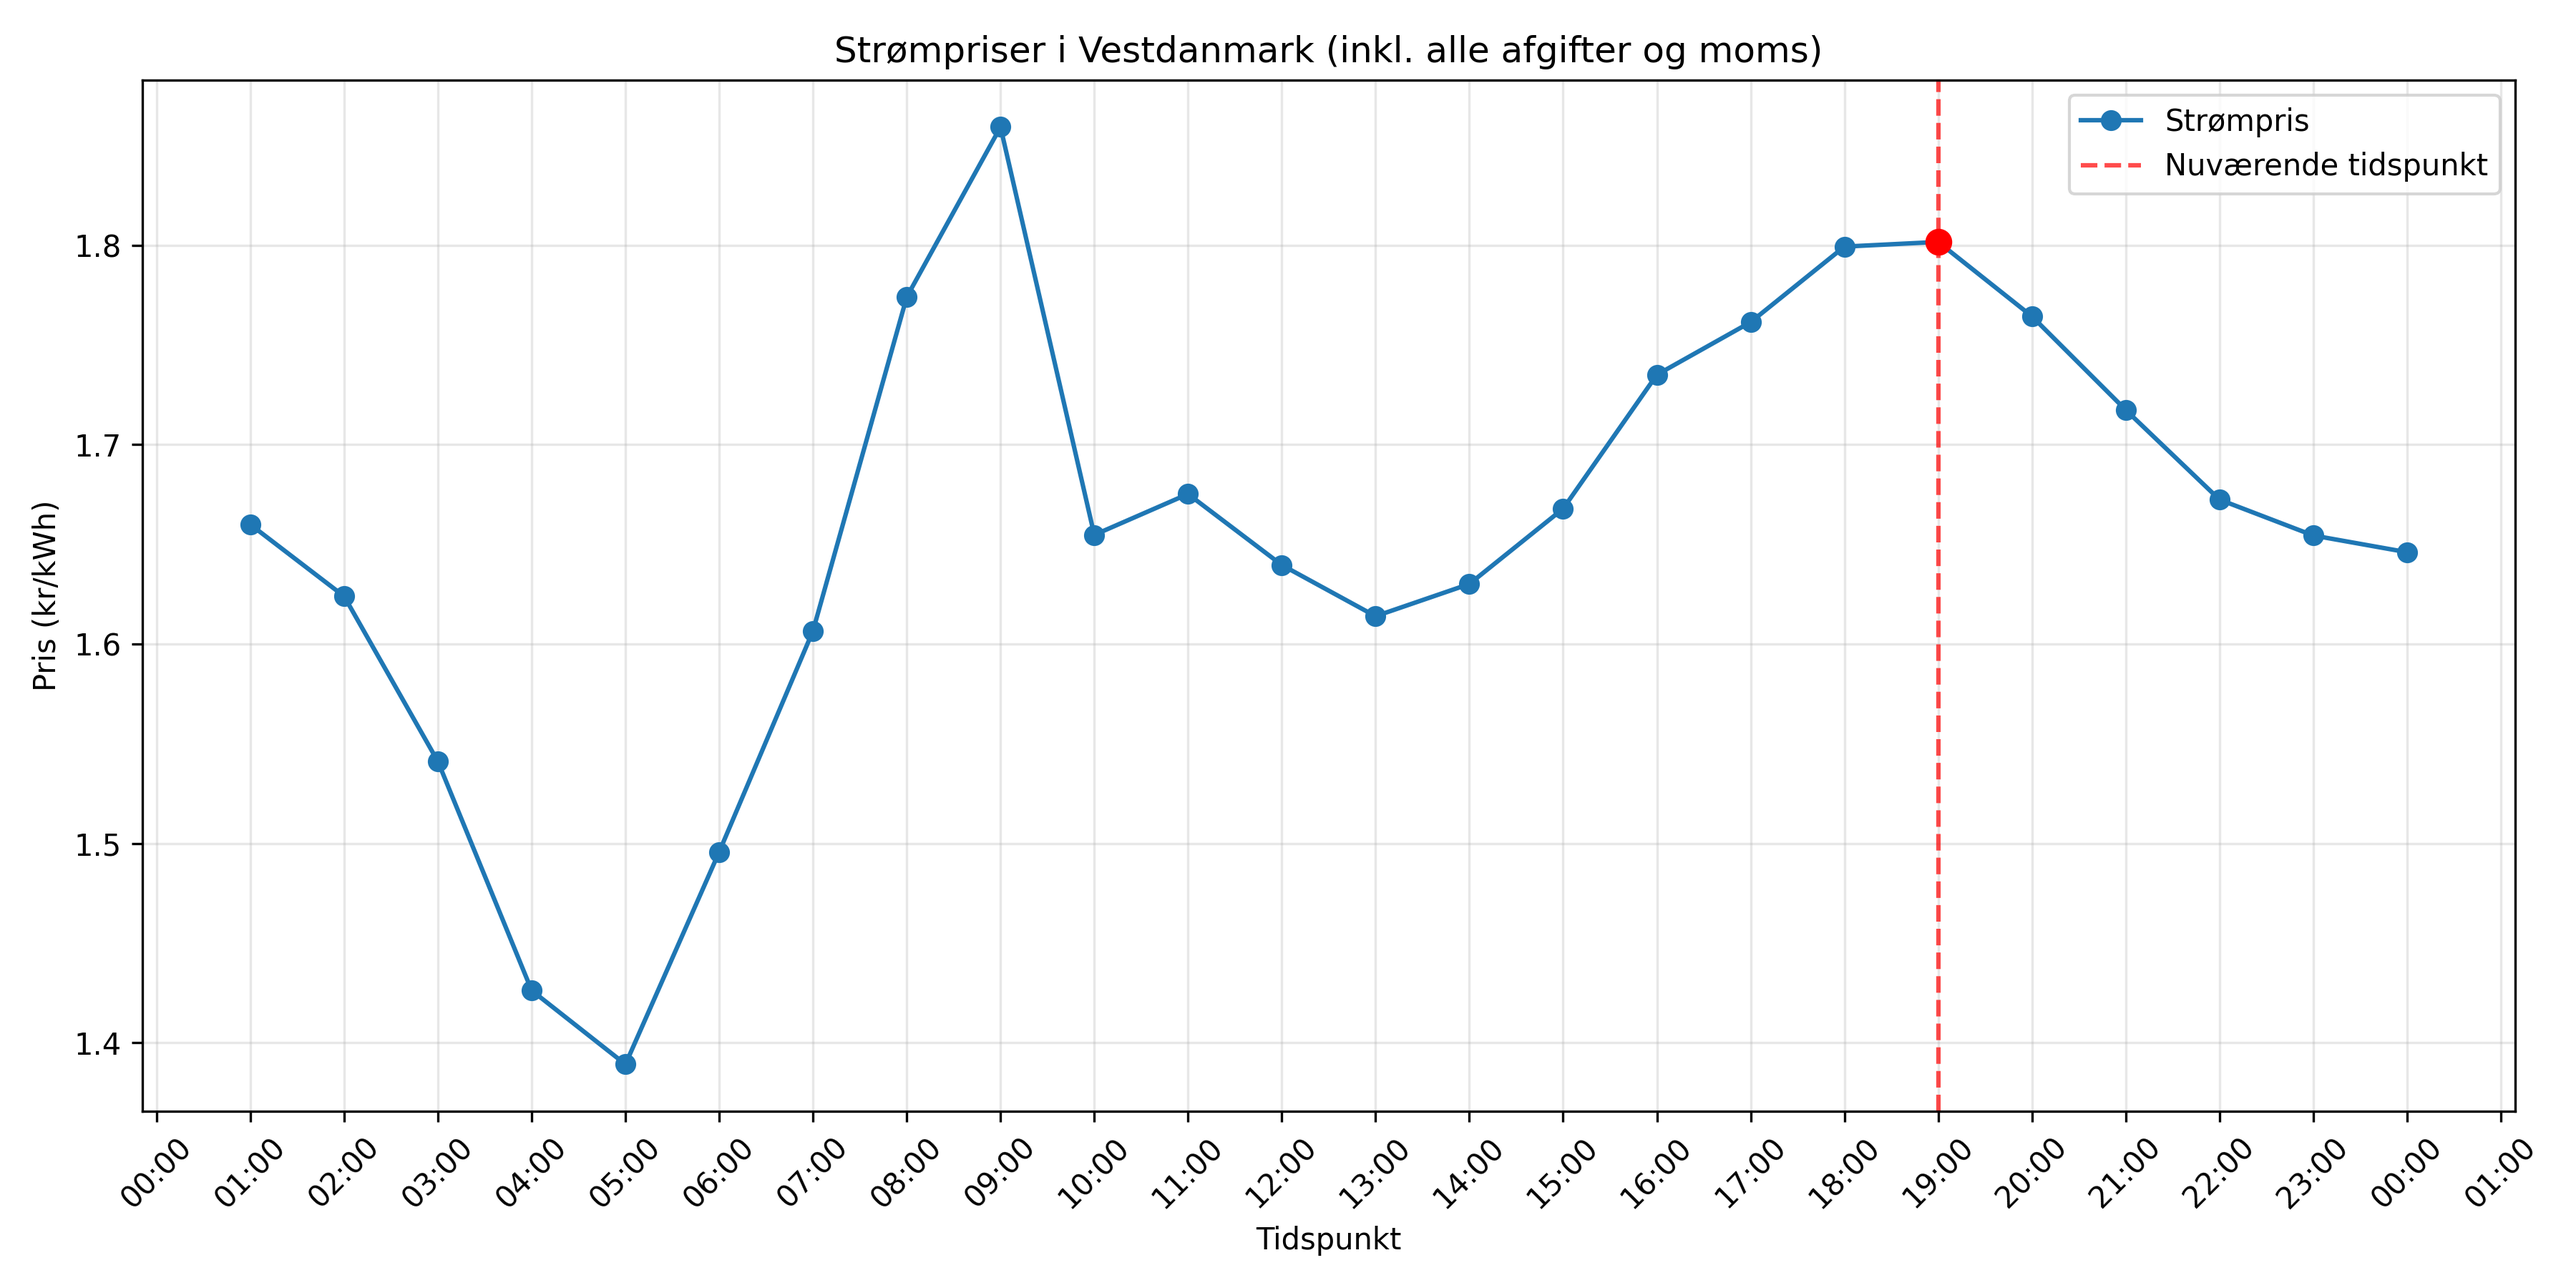
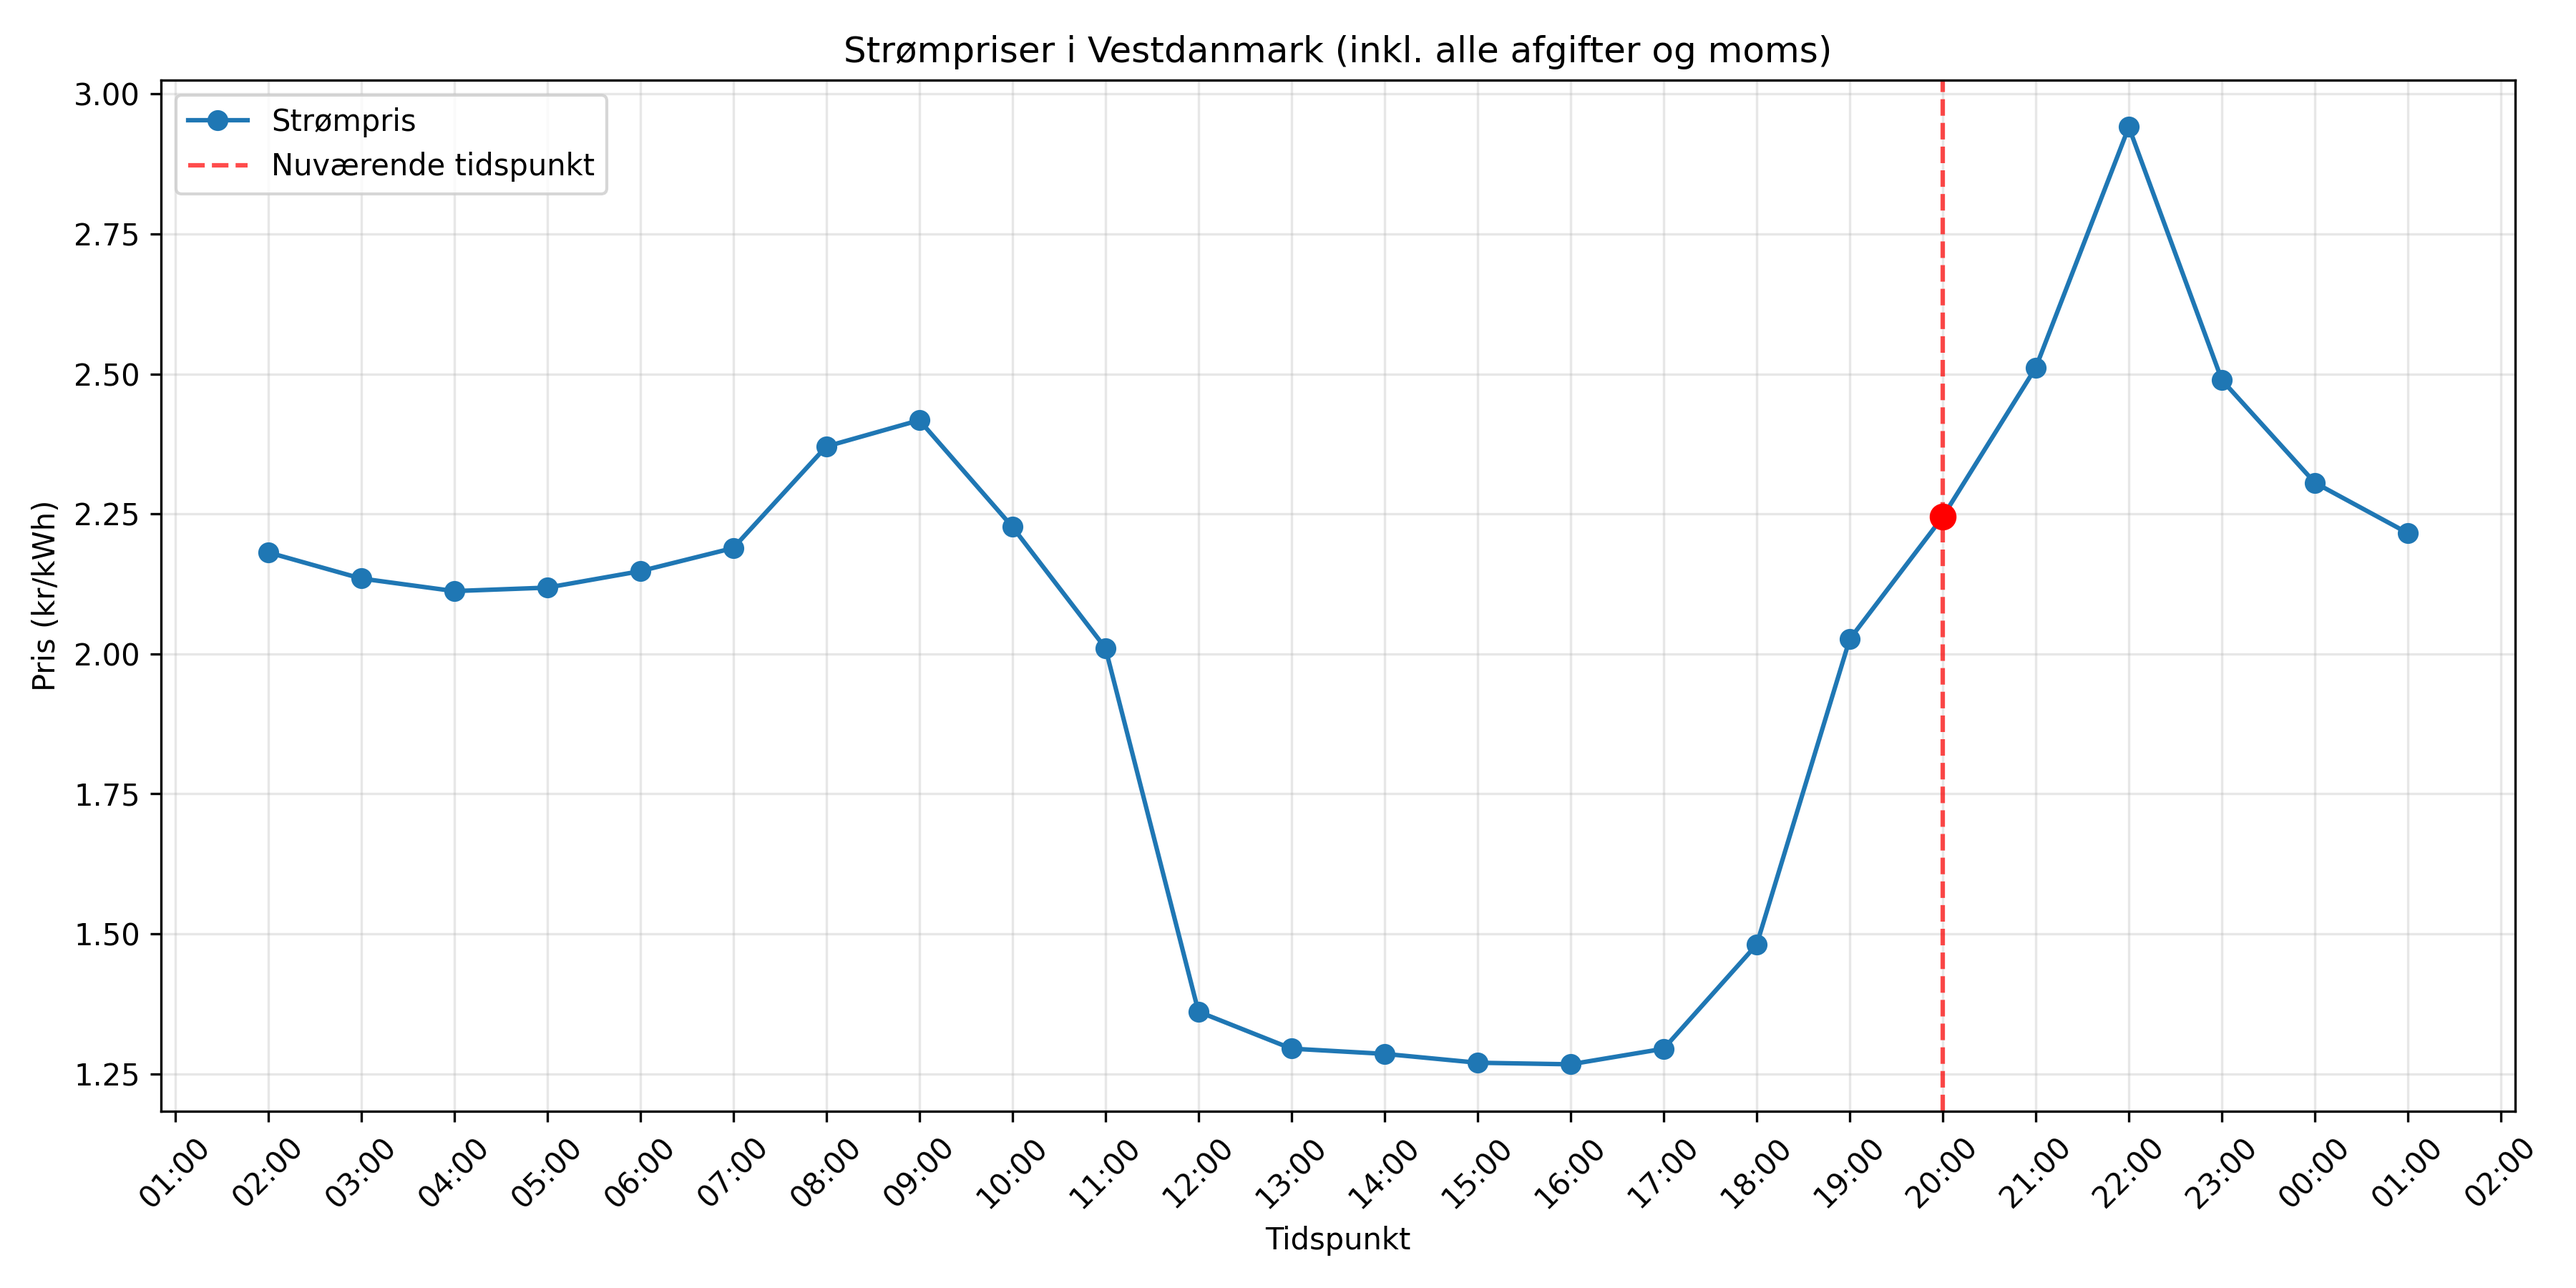
OpenCode har været sød at lave implementeringsplan for en fremtidig fastapi leg

diff --git a/docs/fastapi_plan.md b/docs/fastapi_plan.md
@@ -1,0 +1,106 @@
+# Plan For Lokal FastAPI Server
+
+## Mål
+- Tilføj en lokal HTTP-server, så projektet kan stille elprisdata til rådighed via FastAPI i stedet for kun via CLI og graf.
+- Genbrug den eksisterende logik for Energidataservice-opslag og afgiftsberegning i stedet for at duplikere den.
+- Behold `main.py` som appens CLI-entrypoint; serveren skal leve under `elpris/` og startes med `uv`.
+
+## Nuværende Udgangspunkt
+- Projektet har allerede en fungerende CLI i `elpris/view/cli.py` og entrypoint i `main.py`.
+- Data hentes live fra Energidataservice i `elpris/control/spot_prices.py`.
+- Afgifter og tidsafrunding ligger i `elpris/control/calculations.py`.
+- Pydantic-modeller findes allerede i `elpris/models/`, men de beskriver primært Energinet-responsen og ikke et API-svar til lokale klienter.
+- Projektet har endnu ikke FastAPI eller uvicorn som dependency.
+
+## Fase 1: Server Fundament
+- Tilføj `fastapi` og `uvicorn` til `pyproject.toml` via `uv`.
+- Opret en ny serverpakke under `elpris/server/` i stedet for at lægge HTTP-kode i CLI- eller control-laget.
+- Opret mindst disse filer:
+  - `elpris/server/app.py`: FastAPI-app og route-registrering
+  - `elpris/server/schemas.py`: request/response-modeller for den lokale API
+  - `elpris/server/__init__.py`
+- Start serveren med en kommando i stil med `uv run uvicorn elpris.server.app:app --reload` under udvikling.
+
+## Fase 2: Flyt Forretningslogik Væk Fra CLI-formen
+- Undgå at lade routes arbejde direkte med `print`, `matplotlib` eller rå `DataFrame`-objekter.
+- Uddrag eller tilføj en servicefunktion, som returnerer prisdata i en form, der er egnet til både CLI og HTTP-svar.
+- Den funktion bør tage eksplicitte parametre som:
+  - region (`dk1` eller `dk2`)
+  - starttidspunkt
+  - sluttidspunkt
+  - eventuelt om afgifter skal være med
+- Bevar den eksisterende `2026 -> 2025` workaround i serverflowet, medmindre den erstattes bevidst af en bedre strategi.
+
+## Fase 3: Design API-kontrakten
+- Start simpelt med få endpoints og udvid senere.
+- Anbefalede første endpoints:
+  - `GET /health`: simpelt healthcheck
+  - `GET /prices/current?region=dk1`: aktuel pris for en region
+  - `GET /prices/day?region=dk1`: dagens priser for en region
+  - `GET /prices/range?region=dk1&start=...&end=...`: priser for et tidsinterval
+- Returner JSON med danske domænefelter kun hvis det giver mening; ellers hold API-felter konsekvente og dokumenterede.
+- Fastlæg tidligt om tider skal returneres som:
+  - ISO 8601 i dansk tid
+  - ISO 8601 i UTC
+- Vær konsekvent. Den nemmeste løsning er at returnere ISO-timestamps og tydeligt dokumentere tidszonen.
+
+## Fase 4: Definer Lokale API-modeller
+- Opret Pydantic-modeller, der matcher det lokale API og ikke Energinets rå respons 1:1.
+- En mulig opdeling er:
+  - `PricePoint`: én time med tidspunkt, spotpris og totalpris
+  - `CurrentPriceResponse`: region, timestamp og aktuel pris
+  - `PriceRangeResponse`: region, start, end og liste af `PricePoint`
+  - `ErrorResponse`: fejlbesked og kontekst
+- Undgå at eksponere hele pandas-strukturen direkte i API-svarene.
+
+## Fase 5: Fejlhåndtering
+- Erstat `print`-baseret fejlrapportering i serverlaget med HTTP-fejl.
+- Konverter typiske fejl til tydelige statuskoder:
+  - ugyldig region -> `422` eller `400`
+  - ingen data fra upstream -> `404` eller `502`, afhængigt af årsagen
+  - upstream netværksfejl -> `502`
+  - intern fejl i beregning/serialisering -> `500`
+- Overvej at indføre egne exceptions i control/service-laget, så FastAPI-routes kan mappe dem til stabile HTTP-svar.
+
+## Fase 6: Teststrategi
+- Behold `uv run pytest` som standardkommando.
+- Tilføj API-tests med FastAPIs `TestClient`.
+- Mock Energidataservice-kald i servertests, så test ikke afhænger af live netværk.
+- Start med disse tests:
+  - `GET /health` returnerer `200`
+  - `GET /prices/current` returnerer forventet JSON-format
+  - ugyldig region giver valideringsfejl
+  - tomt upstream-svar bliver til en kontrolleret HTTP-fejl
+  - 2026-workarounden bryder ikke route-flowet
+
+## Fase 7: Kørsel Og Verifikation
+- Bevar eksisterende verifikation:
+  - `uv run pytest`
+  - `uv run main.py --no-show`
+- Tilføj serververifikation:
+  - `uv run uvicorn elpris.server.app:app --reload`
+- Manuel kontrol i browser eller med `curl`:
+  - `http://127.0.0.1:8000/health`
+  - `http://127.0.0.1:8000/docs`
+  - `http://127.0.0.1:8000/prices/day?region=dk1`
+
+## Fase 8: Mulige Udvidelser Efter Første Version
+- Cache dagens API-svar kortvarigt for at undgå unødige kald mod Energidataservice.
+- Tilføj endpoint for begge regioner i samme kald.
+- Tilføj vedvarende lagring i `data/` hvis DuckDB skal være en reel del af serverens flow.
+- Tilføj simple metrics eller struktureret logging, hvis serveren skal bruges mere end lokalt.
+
+## Foreslået Implementeringsrækkefølge
+1. Tilføj dependencies for FastAPI-serveren.
+2. Opret `elpris/server/app.py` med `GET /health`.
+3. Flyt eller udtræk en genbrugelig servicefunktion, som returnerer serialiserbare prisdata.
+4. Implementer `GET /prices/day` for én region.
+5. Implementer `GET /prices/current` oven på samme service.
+6. Tilføj API-tests med mocks.
+7. Tilføj `GET /prices/range` hvis behovet stadig er der.
+
+## Vigtige Repo-Hensyn
+- Følg repo-reglen om `uv`; brug ikke `pip`.
+- Læg ny produktionskode under `elpris/` og tests under `tests/`.
+- Bevar danske brugerrettede tekster, medmindre opgaven eksplicit er at oversætte dem.
+- Undgå at bygge serveren oven på notebook- eller `temp/`-kode; det er ikke hovedflowet i repoet.

diff --git a/AGENTS.md b/AGENTS.md
@@ -1,0 +1,32 @@
+# AGENTS.md
+
+## Setup
+- Brug `uv` til dependencies og kommandoer. Undga `pip`; repo-reglen i `.agents/rules/basic-rules.md` siger at dependencies skal handteres med `uv`.
+- Projektet kraver Python `3.13` (`.python-version`, `pyproject.toml`).
+
+## Run And Verify
+- Start appen med `uv run main.py`.
+- Headless verifikation: `uv run main.py --no-show`.
+- Kør tests med `uv run pytest`.
+- Der er ingen verificeret lint-, typecheck- eller CI-konfiguration i repoet. Opfind ikke ekstra obligatoriske checks.
+
+## Structure
+- Produktionskode hører under `elpris/`.
+- Tests hører under `tests/`.
+- Root-level Python entrypoint skal være `main.py`; repo-reglerne forventer, at det er den eneste Python-fil i roden til opstart.
+- Den faktiske lagdeling er:
+  - `elpris/view/cli.py`: CLI-argumenter og plotting
+  - `elpris/control/spot_prices.py`: hentning fra Energidataservice
+  - `elpris/control/calculations.py`: afrunding og afgiftsberegning
+  - `elpris/models/`: Pydantic-, enum- og afgiftsmodeller
+
+## Repo Quirks
+- Dato-logikken har en bevidst `2026 -> 2025` workaround i bade `elpris/view/cli.py` og `elpris/control/spot_prices.py`, fordi miljoets systemtid ligger foran tilgængelige Energidataservice-data. Bevar eller erstat den bevidst, hvis du rører dato-handteringen.
+- Bevar danske domanenavne og brugerrettede tekster, medmindre opgaven eksplicit er at oversatte dem.
+- `temp/` indeholder scratch/prototype-kode og er ikke en del af den pakkede applikation (`pyproject.toml` udelukker `temp*`).
+- `elpris/notebooks/` og `__marimo__/` bruges til Marimo-notebooks, men er ikke hoved-entrypoint for appen.
+- Der er en DuckDB dependency og en repo-regel om data i `data/`, men den nuværende hovedapp bruger live API-kald og plotting; DuckDB-flowet lever i scratch-kode under `temp/`.
+
+## Tests
+- Testdakningen er lille. `tests/test_taxes.py` er den eneste test med reelle assertions.
+- `tests/test_models_energinet.py` er i praksis tom, så et grønt test-run er ikke stærk evidens for korrekthed.
